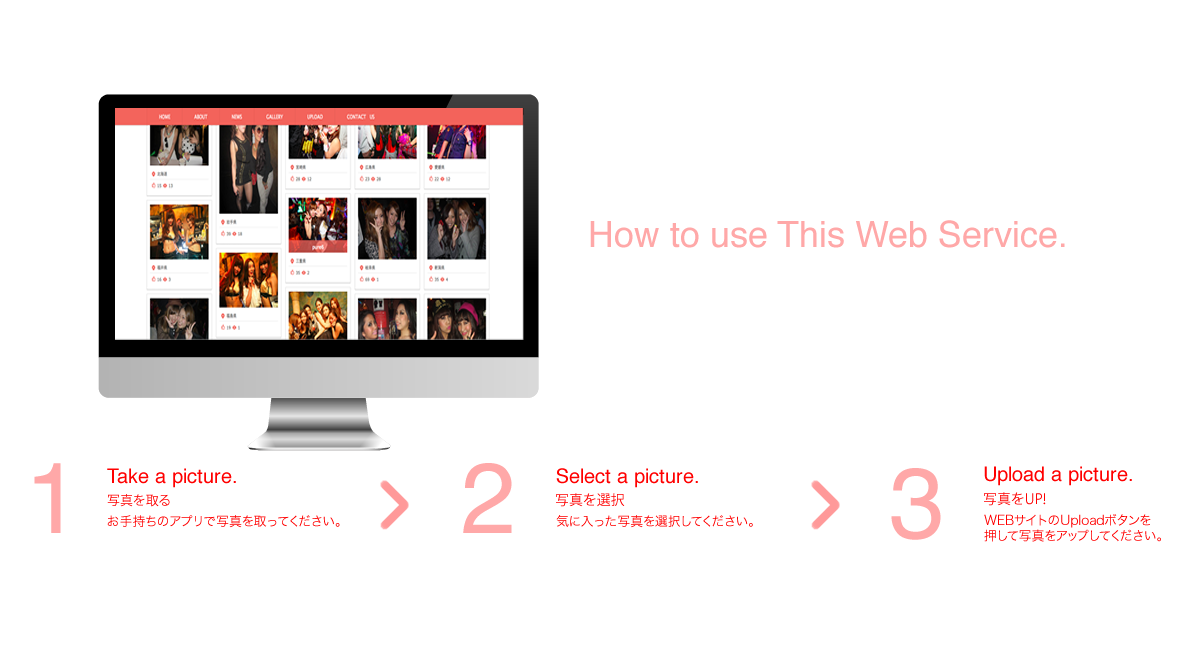
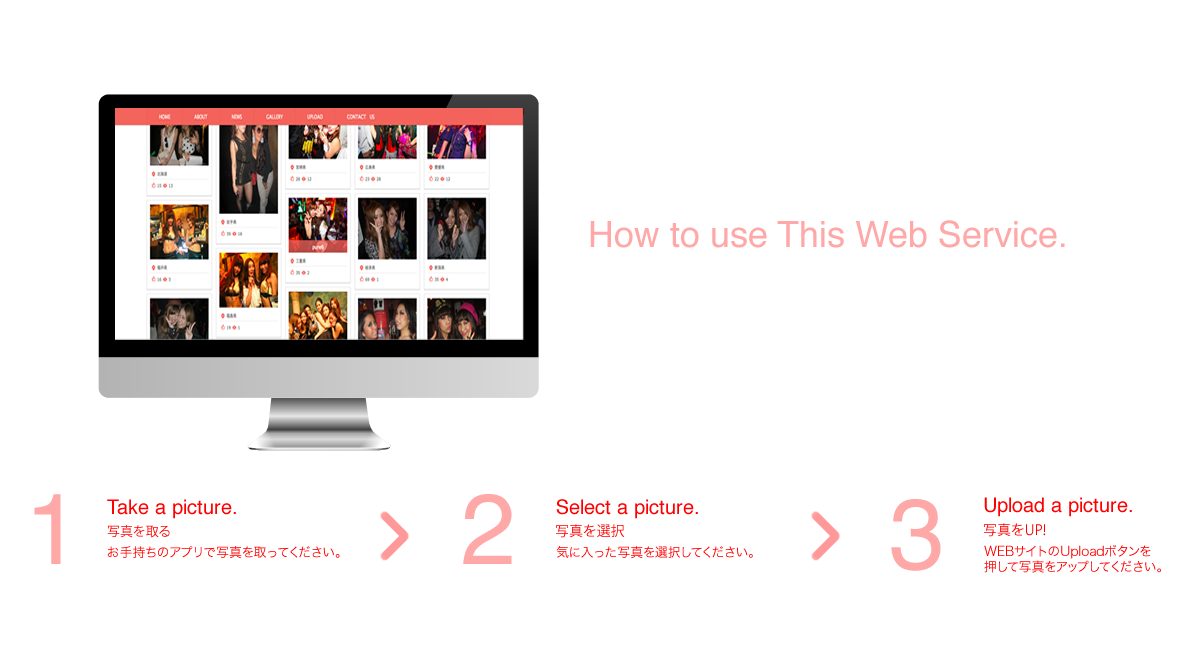
ちょっと位置調整

diff --git a/app/assets/stylesheets/photos.css.scss b/app/assets/stylesheets/photos.css.scss
@@ -127,7 +127,7 @@ header {
 
 
 #howtouse{
-	height:683px;
+	height:654px;
 	width: 1150px;
 	margin: 0 auto 100px;
 }
